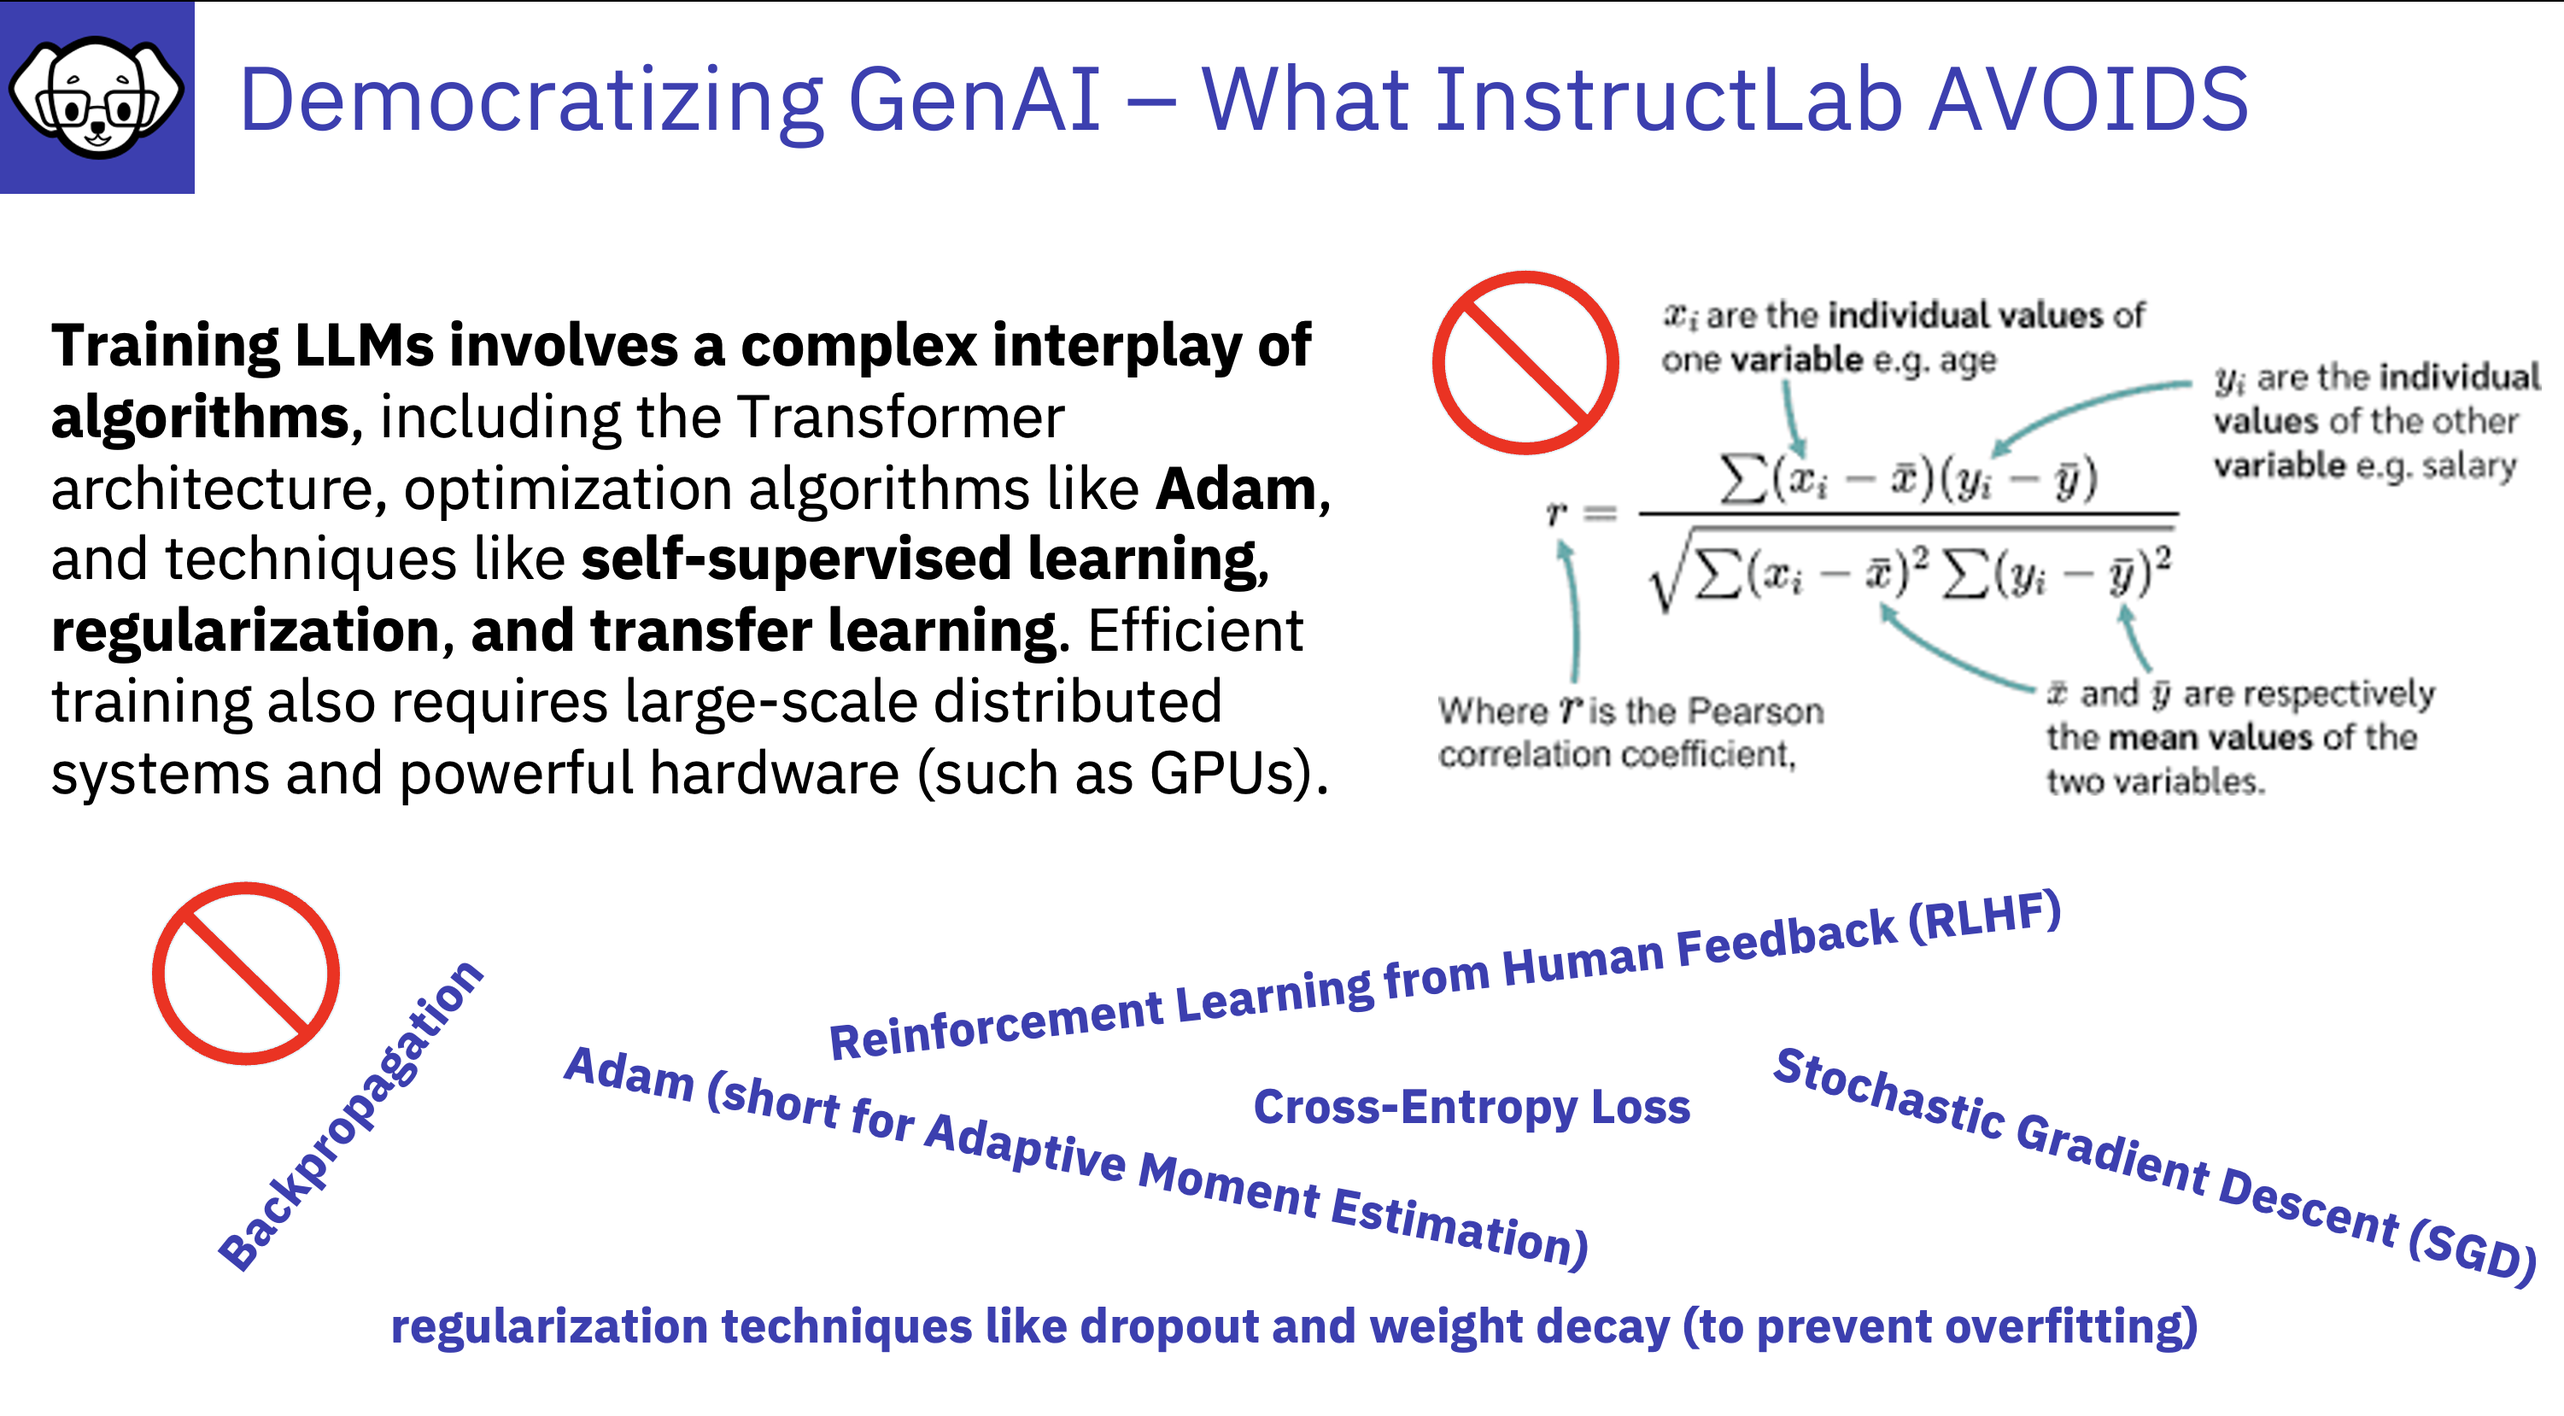
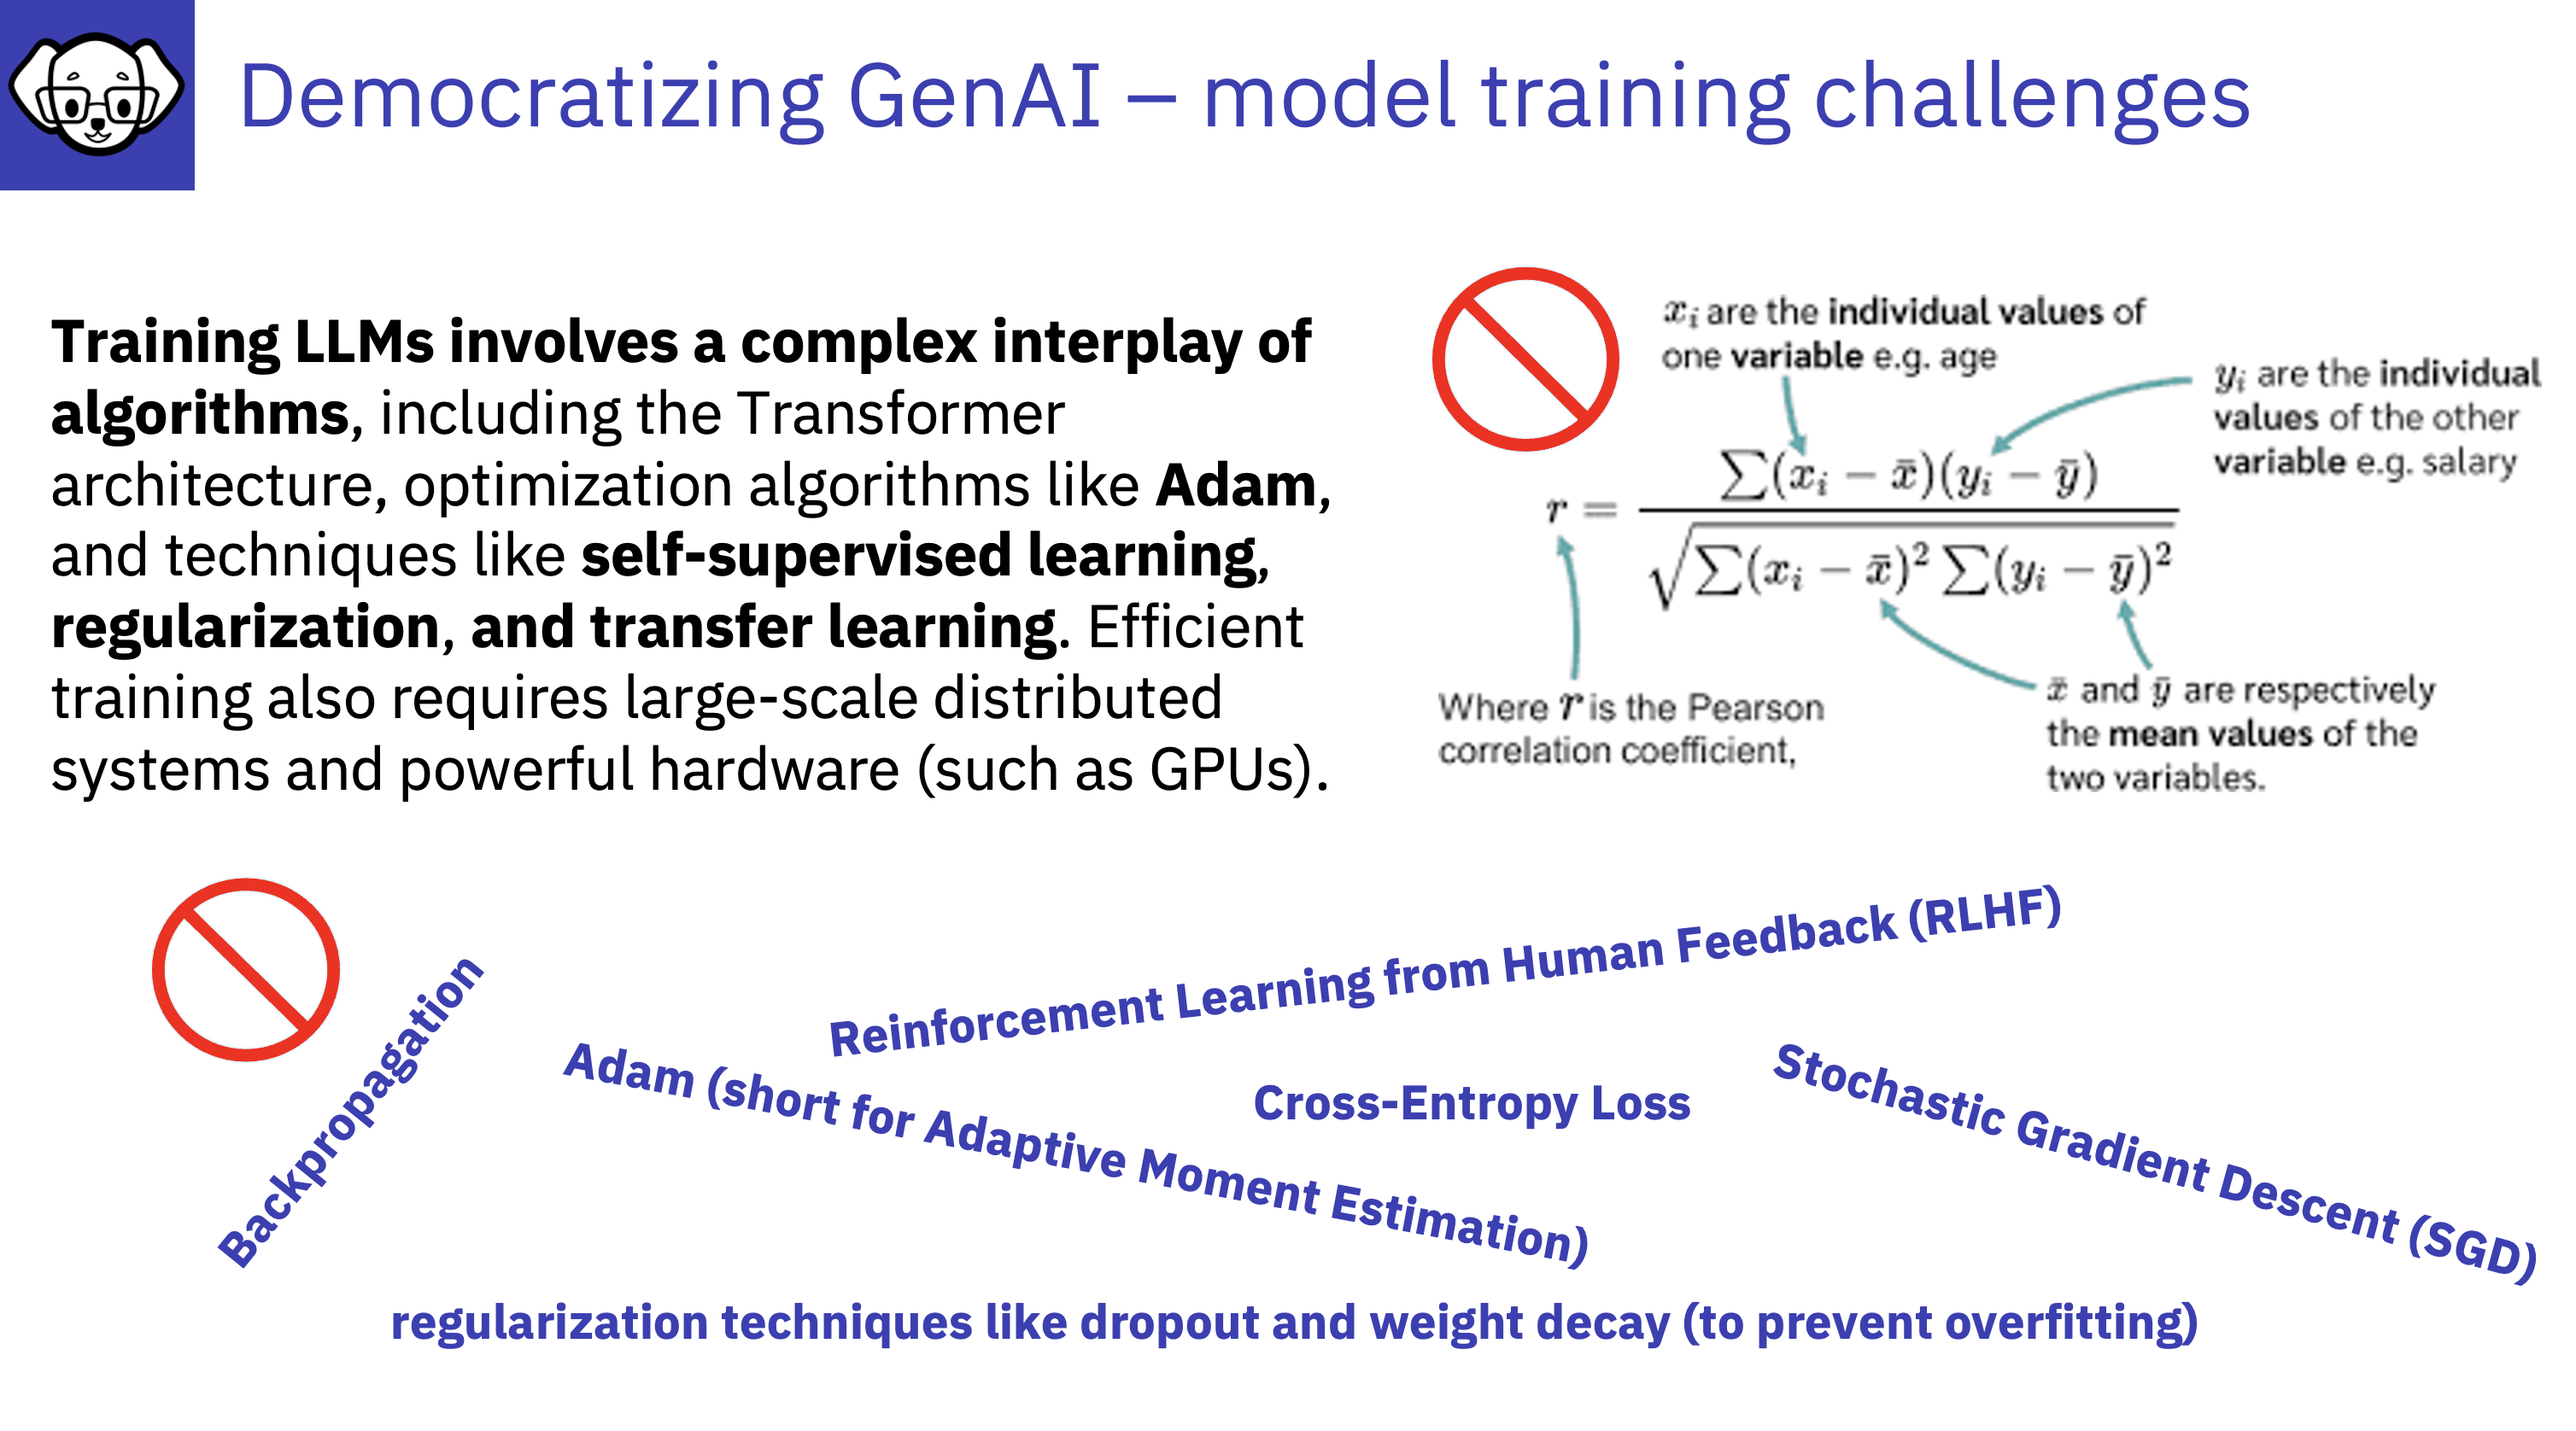
update

diff --git a/showroom_instructlab_summit2024/content/course _content/4-4 Technical experience needed.md b/showroom_instructlab_summit2024/content/course _content/4-4 Technical experience needed.md
@@ -7,5 +7,5 @@
 # Terminal/Command Line
 - ## An understanding of the Knowledge or Skill you are adding
 - ## Have a good understanding of terminal or command line
-- ## Familiar with GIT 
+- ## Familiar with GitHub
 - ## Able to create markdown files

diff --git a/showroom_instructlab_summit2024/content/course _content/4-3-1 Democratizing GenAI.md b/showroom_instructlab_summit2024/content/course _content/4-3-1 Democratizing GenAI.md
@@ -1,3 +1,3 @@
-# Democratizing GenAI through Open Source community contributions
+# Democratizing GenAI - Traditional model training challenges
 
 ![Traditional methods for training an LLM and the challenges](images/ilavoids.png)

diff --git a/showroom_instructlab_summit2024/content/course _content/4-3-2 Democratizing GenAI.md b/showroom_instructlab_summit2024/content/course _content/4-3-2 Democratizing GenAI.md
@@ -1,4 +1,4 @@
-# Democratizing GenAI 
+# Democratizing GenAI  - Skills
 
 # InstructLab does not require you to be:
 - ## Data Scientist
